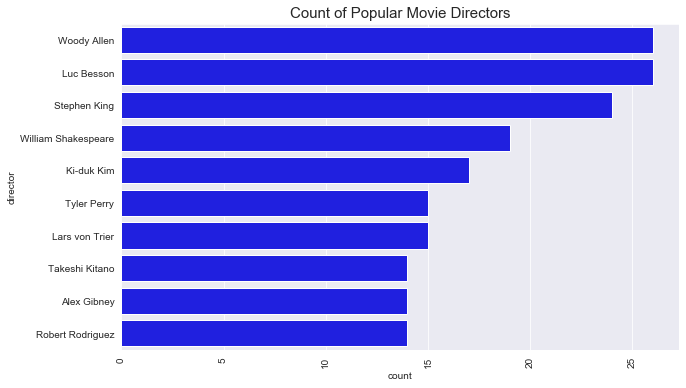
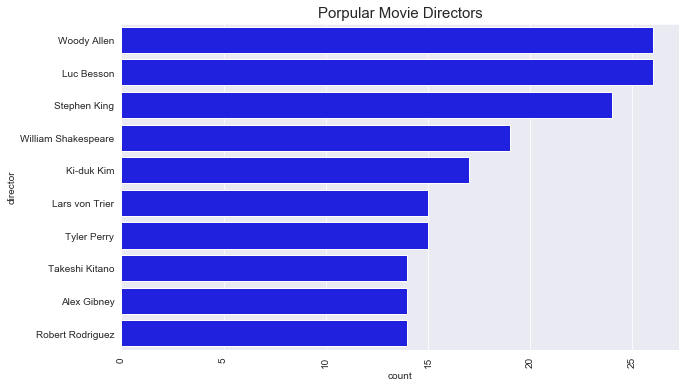
updated eda

Changed region(s): [[0.4286, 0.0, 0.7653, 0.0619], [0.0918, 0.4948, 0.1531, 0.5567], [0.0612, 0.5876, 0.1837, 0.6186]]

diff --git a/edsa_recommender.py b/edsa_recommender.py
@@ -131,9 +131,14 @@ def main():
 
     if page_selection == "EDA":
         st.title("Exploratory Data Analysis")
-        st.image(('resources/imgs/counts_graph.png'), use_column_width=True)
-        st.image(('resources/imgs/ratings_graph.png'), use_column_width=True)
-        st.image(('resources/imgs/counts_ratings.png'), use_column_width=True)
+        st.image(('resources/imgs/all time popular movies by ratings.png'), use_column_width=True)
+        st.image(('resources/imgs/total movies released per year.png'), use_column_width=True)
+        st.image(('resources/imgs/popular movie genre.png'), use_column_width=True)
+        st.image(('resources/imgs/most popular actors.png'), use_column_width=True)
+        st.image(('resources/imgs/rating per distribution.png'), use_column_width=True)
+        st.image(('resources/imgs/popular cast wordcloud.png'), use_column_width=True)
+        st.image(('resources/imgs/popular movie directors.png'), use_column_width=True)
+        st.image(('resources/imgs/average runtime per genre.png'), use_column_width=True)
 
     if page_selection == "Contact Us":
         st.title("Get in touch with us")
